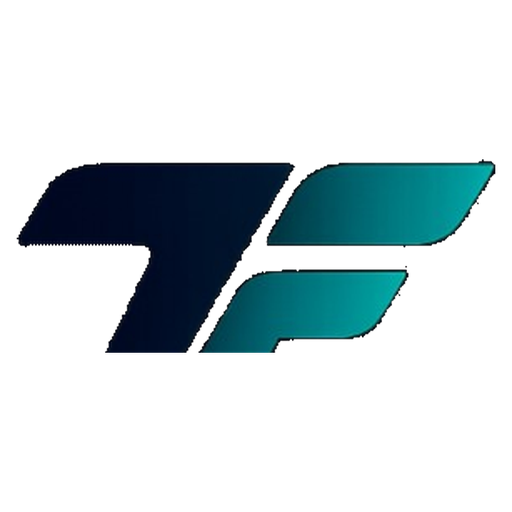
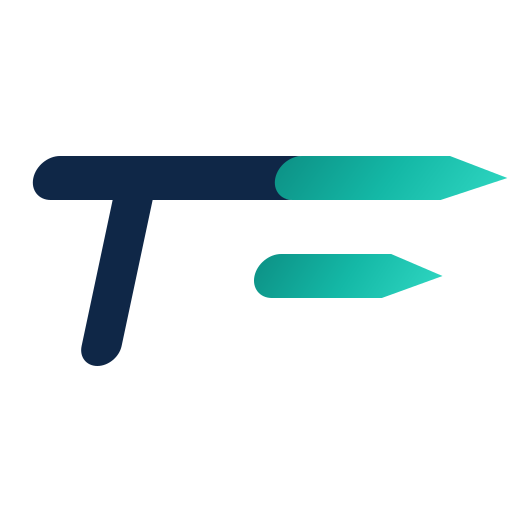
Replace blurry ChatGPT raster lockup with crisp SVG BrandLogo and SVG-rendered PNG derivatives.

Changed region(s): [[0.0312, 0.2812, 1.0, 0.7188]]

diff --git a/apps/web/scripts/render-brand-logos.ts b/apps/web/scripts/render-brand-logos.ts
@@ -1,0 +1,117 @@
+/**
+ * Rasterize crisp SVG brand assets → PNG masters for email/PDF.
+ *
+ * Uses Inter WOFF from prisma's bundled assets (already in the monorepo),
+ * falling back to Arial Bold on macOS if librsvg cannot load WOFF.
+ *
+ * Usage: npx tsx scripts/render-brand-logos.ts
+ */
+import fs from "fs";
+import path from "path";
+import { fileURLToPath } from "url";
+import sharp from "sharp";
+
+const root = path.join(path.dirname(fileURLToPath(import.meta.url)), "..");
+const brandDir = path.join(root, "public/brand");
+const repoRoot = path.join(root, "../..");
+
+function findFontCandidates(): { family: string; bold: string; semibold: string } {
+  const prismaAssets = path.join(repoRoot, "node_modules/prisma/build/public/assets");
+  const inter600 = path.join(prismaAssets, "inter-all-600-normal.d0a7c8a9.woff");
+  const inter400 = path.join(prismaAssets, "inter-all-400-normal.4c1f8a0d.woff");
+  if (fs.existsSync(inter600)) {
+    return {
+      family: "Inter",
+      bold: inter600,
+      semibold: fs.existsSync(inter400) ? inter600 : inter600,
+    };
+  }
+
+  const arialBold = "/System/Library/Fonts/Supplemental/Arial Bold.ttf";
+  const arial = "/System/Library/Fonts/Supplemental/Arial.ttf";
+  if (fs.existsSync(arialBold)) {
+    console.warn("Inter WOFF not found — falling back to Arial for PNG raster");
+    return { family: "Arial", bold: arialBold, semibold: fs.existsSync(arial) ? arial : arialBold };
+  }
+
+  throw new Error("No usable font found for SVG→PNG (need Inter WOFF or Arial)");
+}
+
+function pathToFileUrl(p: string) {
+  return `file://${path.resolve(p)}`;
+}
+
+function svgWithEmbeddedFonts(
+  svg: string,
+  fonts: { family: string; bold: string; semibold: string },
+) {
+  const boldUri = pathToFileUrl(fonts.bold);
+  const semiUri = pathToFileUrl(fonts.semibold);
+  const face = `
+  <defs>
+    <style type="text/css"><![CDATA[
+      @font-face {
+        font-family: '${fonts.family}';
+        font-weight: 600;
+        src: url('${semiUri}');
+      }
+      @font-face {
+        font-family: '${fonts.family}';
+        font-weight: 700;
+        src: url('${boldUri}');
+      }
+      .wm, .tg, text {
+        font-family: '${fonts.family}', Inter, system-ui, sans-serif !important;
+      }
+    ]]></style>
+  </defs>`;
+  return svg.replace(/<svg([^>]*)>/, `<svg$1>${face}`);
+}
+
+async function writePng(
+  svgPath: string,
+  outPath: string,
+  width: number,
+  fonts: { family: string; bold: string; semibold: string },
+) {
+  let svg = fs.readFileSync(svgPath, "utf8");
+  if (svg.includes("<text")) {
+    svg = svgWithEmbeddedFonts(svg, fonts);
+  }
+  await sharp(Buffer.from(svg), { density: 288 })
+    .resize({ width, fit: "inside", withoutEnlargement: false })
+    .png({ compressionLevel: 9 })
+    .toFile(outPath);
+  const meta = await sharp(outPath).metadata();
+  console.log("wrote", path.relative(root, outPath), `${meta.width}x${meta.height}`, meta.size, "bytes");
+}
+
+async function main() {
+  const fonts = findFontCandidates();
+  console.log("using font", fonts.family, fonts.bold);
+
+  const lockupSvg = path.join(brandDir, "logo-ticketfeeling.svg");
+  const markSvg = path.join(brandDir, "icon-mark.svg");
+  const appSvg = path.join(brandDir, "icon-app.svg");
+
+  await writePng(lockupSvg, path.join(brandDir, "logo-ticketfeeling.png"), 1365, fonts);
+  await writePng(lockupSvg, path.join(brandDir, "logo-lockup.png"), 910, fonts);
+  await writePng(lockupSvg, path.join(brandDir, "logo-lockup-1x.png"), 455, fonts);
+  await writePng(lockupSvg, path.join(brandDir, "logo-email.png"), 420, fonts);
+
+  await writePng(markSvg, path.join(brandDir, "icon-mark-clear.png"), 574, fonts);
+  await writePng(appSvg, path.join(brandDir, "icon-app-clear.png"), 512, fonts);
+
+  const master = path.join(brandDir, "logo-ticketfeeling.png");
+  const { data, info } = await sharp(master).ensureAlpha().raw().toBuffer({ resolveWithObject: true });
+  if (data[3] !== 0) {
+    console.error("FAIL: master corner not transparent", data[3]);
+    process.exit(1);
+  }
+  console.log("ok — transparent master", `${info.width}x${info.height}`);
+}
+
+main().catch((e) => {
+  console.error(e);
+  process.exit(1);
+});

diff --git a/apps/web/src/components/brand-logo-mark.tsx b/apps/web/src/components/brand-logo-mark.tsx
@@ -1,0 +1,126 @@
+/** Shared TF monogram — navy T + teal F, italic slant. Transparent, no plate. */
+
+export const BRAND_NAVY = "#0F2747";
+export const BRAND_TEAL = "#14B8A6";
+export const BRAND_GOLD = "#D6A642";
+
+/** Mark viewBox size (wide italic monogram). */
+export const MARK_VB = { w: 520, h: 220 } as const;
+
+/** Full lockup viewBox (mark + wordmark + tagline). */
+export const LOCKUP_VB = { w: 520, h: 360 } as const;
+
+type SvgProps = {
+  className?: string;
+};
+
+function MarkPaths() {
+  return (
+    <g transform="translate(10,10) skewX(-12)">
+      {/* Navy T — top bar + stem */}
+      <path
+        fill={BRAND_NAVY}
+        d="M20 0
+           H255
+           a22 22 0 0 1 0 44
+           H122
+           V190
+           a20 20 0 0 1 -40 0
+           V44
+           H20
+           a22 22 0 0 1 0 -44
+           Z"
+      />
+      {/* Teal F — upper wing (close to T bar, pointed tip) */}
+      <path
+        fill={BRAND_TEAL}
+        d="M262 0
+           H410
+           L472 22
+           L410 44
+           H262
+           a22 22 0 0 1 0 -44
+           Z"
+      />
+      {/* Teal F — lower wing */}
+      <path
+        fill={BRAND_TEAL}
+        d="M262 98
+           H372
+           L428 120
+           L372 142
+           H262
+           a22 22 0 0 1 0 -44
+           Z"
+      />
+    </g>
+  );
+}
+
+/** Crisp vector TF mark. */
+export function BrandLogoMark({ className }: SvgProps) {
+  return (
+    <svg
+      viewBox={`0 0 ${MARK_VB.w} ${MARK_VB.h}`}
+      className={className}
+      xmlns="http://www.w3.org/2000/svg"
+      aria-hidden
+      focusable="false"
+    >
+      <MarkPaths />
+    </svg>
+  );
+}
+
+type LockupProps = SvgProps & { title?: string };
+
+/**
+ * Full brand lockup: TF mark + Inter wordmark + gold tagline.
+ * Wordmark/tagline use the app Inter stack via CSS variable — sharp at any size.
+ */
+export function BrandLogoLockup({ className, title = "Ticketfeeling" }: LockupProps) {
+  return (
+    <svg
+      viewBox={`0 0 ${LOCKUP_VB.w} ${LOCKUP_VB.h}`}
+      className={className}
+      xmlns="http://www.w3.org/2000/svg"
+      role="img"
+      aria-label={title}
+    >
+      <title>{title}</title>
+      <g transform="translate(28,4)">
+        <MarkPaths />
+      </g>
+
+      <text
+        x={LOCKUP_VB.w / 2}
+        y={268}
+        textAnchor="middle"
+        style={{
+          fontFamily: "var(--font-body), Inter, system-ui, sans-serif",
+          fontWeight: 700,
+          fontSize: 44,
+          letterSpacing: "-0.02em",
+        }}
+      >
+        <tspan fill={BRAND_NAVY}>ticket</tspan>
+        <tspan fill={BRAND_TEAL}>feeling</tspan>
+      </text>
+
+      <text
+        x={LOCKUP_VB.w / 2}
+        y={318}
+        textAnchor="middle"
+        fill={BRAND_GOLD}
+        style={{
+          fontFamily: "var(--font-body), Inter, system-ui, sans-serif",
+          fontWeight: 600,
+          fontSize: 15,
+          letterSpacing: "0.14em",
+        }}
+      >
+        MEHR ALS EIN TICKET.
+      </text>
+    </svg>
+  );
+}

diff --git a/apps/web/src/components/brand-logo.tsx b/apps/web/src/components/brand-logo.tsx
@@ -1,67 +1,45 @@
-import Image from "next/image";
 import Link from "next/link";
+import { BrandLogoLockup, BrandLogoMark } from "@/components/brand-logo-mark";
 
 type BrandLogoProps = {
   href?: string | null;
   variant?: "full" | "mark" | "app";
   className?: string;
+  /** Kept for API compat with former next/image usage; SVG needs no preload. */
   priority?: boolean;
 };
 
-/** Cache-bust so browsers pick up the latest artwork. */
-const V = "20260804a";
+const FULL_CLASS = "aspect-[520/360] h-14 w-auto sm:h-16 md:h-[4.5rem]";
+const MARK_CLASS = "aspect-[520/220] h-8 w-auto md:h-9";
+const APP_CLASS = "aspect-[520/220] h-9 w-auto md:h-10";
 
 /**
- * Intrinsic pixel sizes match cleaned PNG masters (object-contain, never stretch).
- * Full lockup is height-driven so aspect ratio stays correct in nav/footer/hero.
+ * Official Ticketfeeling artwork — vector lockup/mark (sharp at any size).
+ * Never distort / recolor / outline / shadow / 3D.
  */
-const ASSETS = {
-  full: {
-    src: `/brand/logo-ticketfeeling.png?v=${V}`,
-    width: 455,
-    height: 309,
-    /** Height-driven — keep w-auto so AR never stretches. */
-    className: "h-14 w-auto sm:h-16 md:h-[4.5rem]",
-  },
-  mark: {
-    src: `/brand/icon-mark-clear.png?v=${V}`,
-    width: 574,
-    height: 232,
-    className: "h-8 w-auto md:h-9",
-  },
-  app: {
-    src: `/brand/icon-app-clear.png?v=${V}`,
-    width: 512,
-    height: 512,
-    className: "h-9 w-auto md:h-10",
-  },
-} as const;
-
-/** Official Ticketfeeling artwork — never distort/recolor/outline. */
 export function BrandLogo({
   href = "/",
   variant = "full",
   className = "",
-  priority = false,
+  priority: _priority = false,
 }: BrandLogoProps) {
-  const asset = ASSETS[variant];
-  const img = (
-    <Image
-      src={asset.src}
-      alt="Ticketfeeling"
-      width={asset.width}
-      height={asset.height}
-      priority={priority}
-      quality={100}
-      unoptimized
-      className={`object-contain ${asset.className} ${className}`}
-    />
-  );
+  const graphic =
+    variant === "full" ? (
+      <BrandLogoLockup
+        className={`block max-w-full object-contain ${FULL_CLASS} ${className}`}
+      />
+    ) : (
+      <BrandLogoMark
+        className={`block max-w-full object-contain ${
+          variant === "app" ? APP_CLASS : MARK_CLASS
+        } ${className}`}
+      />
+    );
 
-  if (!href) return img;
+  if (!href) return graphic;
   return (
     <Link href={href} className="inline-flex items-center" aria-label="Ticketfeeling Startseite">
-      {img}
+      {graphic}
     </Link>
   );
 }

diff --git a/apps/web/scripts/make-email-logo.ts b/apps/web/scripts/make-email-logo.ts
@@ -1,10 +1,14 @@
+/**
+ * Thin wrapper: prefer `npx tsx scripts/render-brand-logos.ts` (SVG → all PNG sizes).
+ * Kept for older scripts that only need logo-email.png.
+ */
 import fs from "fs";
 import sharp from "sharp";
 import path from "path";
 import { fileURLToPath } from "url";
 
 const root = path.join(path.dirname(fileURLToPath(import.meta.url)), "..");
-/** Prefer cleaned master; fall back to lockup for older checkouts. */
+/** Prefer SVG-rendered master; fall back to lockup for older checkouts. */
 const master = path.join(root, "public/brand/logo-ticketfeeling.png");
 const lockup = path.join(root, "public/brand/logo-lockup.png");
 const out = path.join(root, "public/brand/logo-email.png");

diff --git a/apps/web/scripts/make-logo-master.ts b/apps/web/scripts/make-logo-master.ts
@@ -1,6 +1,6 @@
 /**
- * Knock out solid black plate from ChatGPT/JPEG logo artwork → real PNG+alpha.
- * Writes master + lockup + email variants.
+ * @deprecated Prefer `render-brand-logos.ts` (SVG → crisp PNG).
+ * Legacy: knock out solid black plate from ChatGPT/JPEG logo artwork → PNG+alpha.
  *
  * Usage: npx tsx scripts/make-logo-master.ts [sourcePath]
  */

diff --git a/docs/brand-design-system.md b/docs/brand-design-system.md
@@ -30,15 +30,17 @@ Nur **Inter** (`next/font`). Weights: 400 / 500 / 600 / 700.
 | `.tf-btn-secondary` | Weiß, Navy-Border |
 | `.tf-card` | Weiß, Soft Shadow, Radius 20 |
 | `.tf-input` | Radius 14, großer Touch |
-| `BrandLogo` | Offizielles Lockup `/brand/logo-ticketfeeling.png` |
+| `BrandLogo` | Offizielles Lockup (SVG: `BrandLogoLockup` / `/brand/logo-ticketfeeling.svg`) |
 | `EventCard` | Event-Kachel mit Bild, Datum, Ort, CTA |
 
 ## Logo-Regeln
 
 - Nur das offizielle Artwork
 - Nicht verzerren, nicht umfärben, keine Outline/Schatten/3D
-- Datei: `apps/web/public/brand/logo-ticketfeeling.png`
-- Weitere Varianten (Icon, Favicon) folgen — bis dahin Lockup mit dunkler Plate auf hellen Flächen
+- Web: Vektor-Lockup (`BrandLogo` → SVG), Quelle `apps/web/public/brand/logo-ticketfeeling.svg`
+- E-Mail/PDF: hochaufgelöste PNGs aus dem SVG (`npx tsx scripts/render-brand-logos.ts`)
+- Transparenter Hintergrund — keine schwarze Plate, kein JPEG-Knockout
+- Mark/App: `icon-mark.svg` / `BrandLogoMark` (nicht die alten ChatGPT-Raster)
 
 ## Sprache
 
